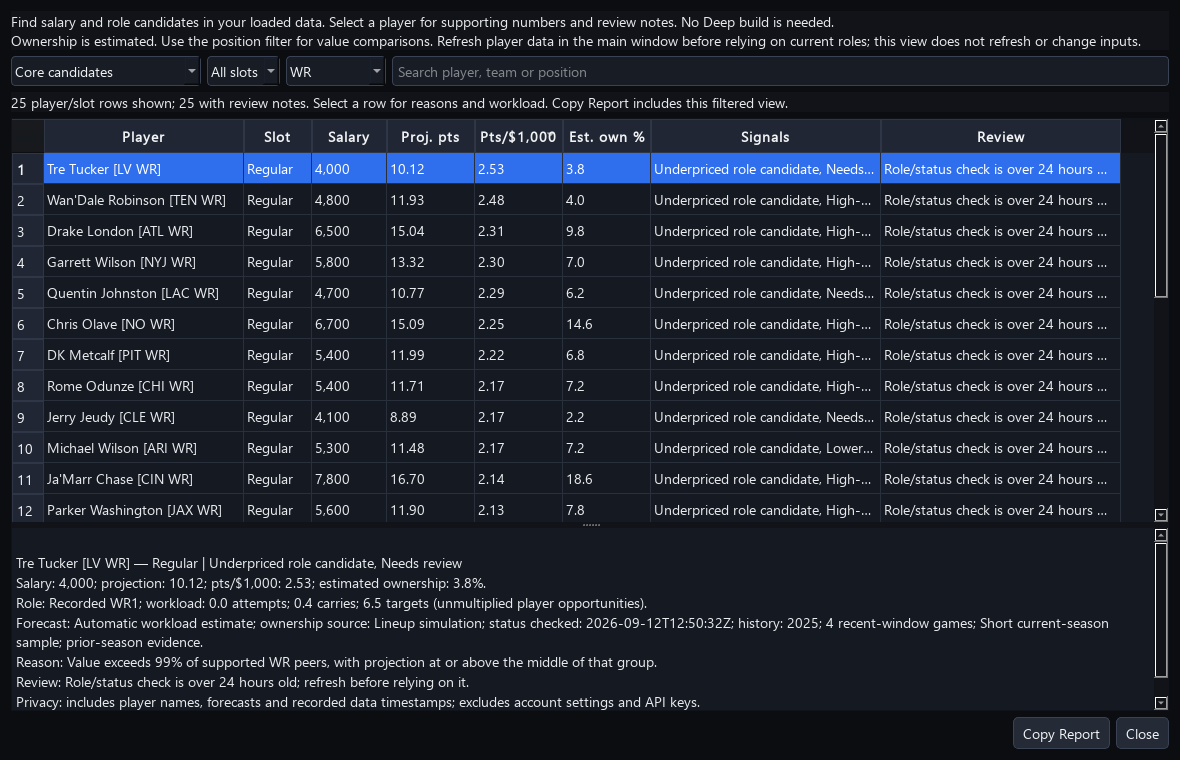
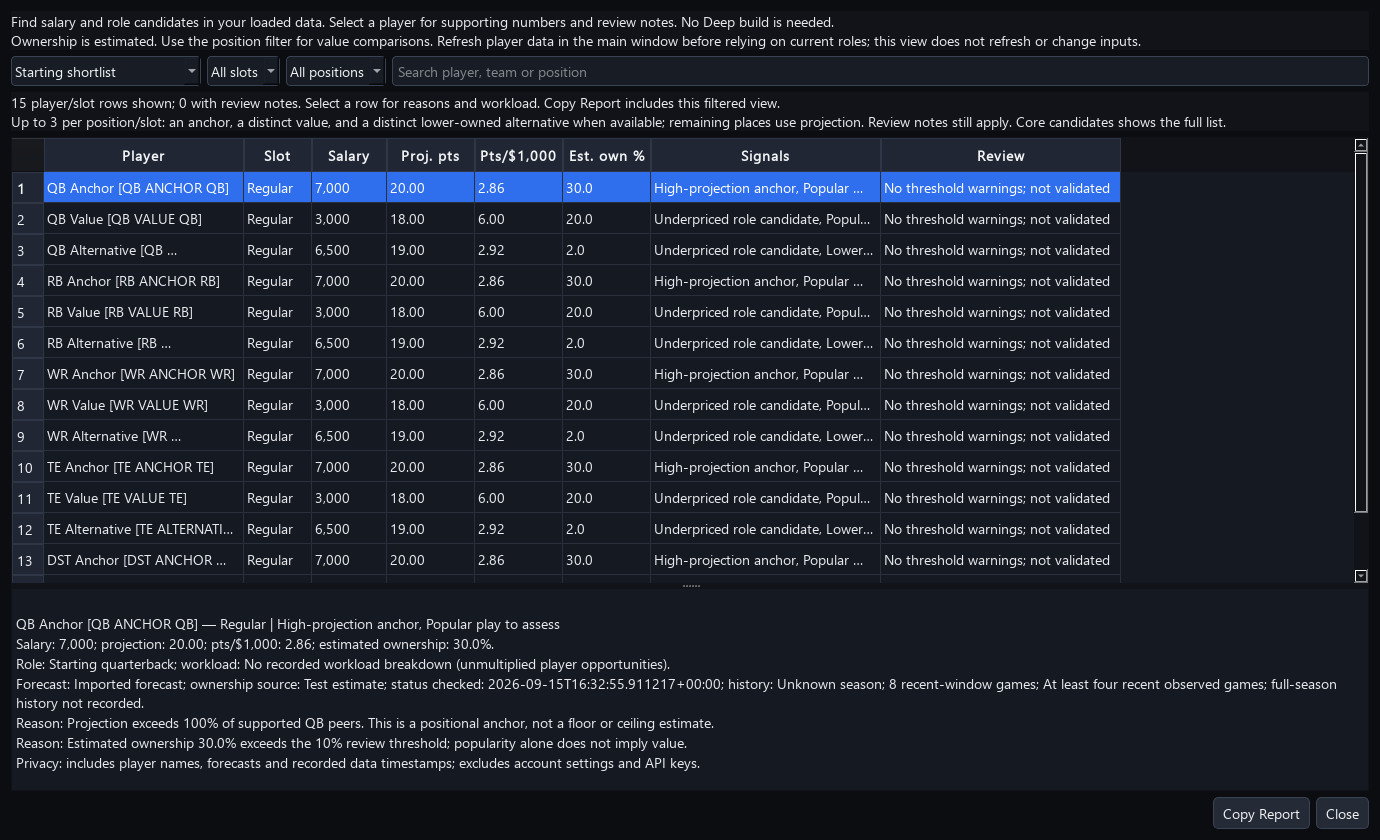
Add focused positional Core Plays shortlist and explicit alternative tradeoffs

diff --git a/core_plays_ui.py b/core_plays_ui.py
@@ -1,6 +1,6 @@
 """Sortable read-only core-play shortlist from already loaded player inputs."""
 from PyQt5 import QtCore,QtWidgets
-from core_plays import build_core_plays,format_core_report,CATEGORIES,POSITIVE
+from core_plays import build_core_plays,format_core_report,focused_core_rows,CATEGORIES,POSITIVE
 
 
 class CoreNumberItem(QtWidgets.QTableWidgetItem):
@@ -22,7 +22,7 @@ class CorePlaysDialog(QtWidgets.QDialog):
         layout=QtWidgets.QVBoxLayout(self)
         intro=QtWidgets.QLabel('Find salary and role candidates in your loaded data. Select a player for supporting numbers and review notes. No Deep build is needed.\nOwnership is estimated. Use the position filter for value comparisons. Refresh player data in the main window before relying on current roles; this view does not refresh or change inputs.');intro.setWordWrap(True);layout.addWidget(intro)
         controls=QtWidgets.QHBoxLayout()
-        self.category=QtWidgets.QComboBox();self.category.addItems(['Core candidates','All eligible','All loaded']+list(CATEGORIES))
+        self.category=QtWidgets.QComboBox();self.category.addItems(['Starting shortlist','Core candidates','All eligible','All loaded']+list(CATEGORIES))
         self.slot=QtWidgets.QComboBox();self.slot.addItems(['All slots']+(['Captain','FLEX'] if kind=='showdown' else ['Regular']))
         self.position=QtWidgets.QComboBox();self.position.addItems(['All positions','QB','RB','WR','TE','K','DST'])
         self.search=QtWidgets.QLineEdit();self.search.setPlaceholderText('Search player, team or position')
@@ -35,6 +35,9 @@ class CorePlaysDialog(QtWidgets.QDialog):
         self.table.setEditTriggers(QtWidgets.QAbstractItemView.NoEditTriggers)
         self.table.setSelectionBehavior(QtWidgets.QAbstractItemView.SelectRows)
         self.table.setSelectionMode(QtWidgets.QAbstractItemView.SingleSelection)
+        self.table.horizontalHeader().setSortIndicator(-1,QtCore.Qt.AscendingOrder)
+        self.table.horizontalHeader().setSectionResizeMode(QtWidgets.QHeaderView.Interactive)
+        for j,width in enumerate([200,68,75,88,88,88,230,240]):self.table.setColumnWidth(j,width)
         split.addWidget(self.table)
         self.details=QtWidgets.QPlainTextEdit();self.details.setReadOnly(True);split.addWidget(self.details);split.setSizes([440,200])
         buttons=QtWidgets.QDialogButtonBox(QtWidgets.QDialogButtonBox.Close)
@@ -51,11 +54,12 @@ class CorePlaysDialog(QtWidgets.QDialog):
             if self.position.currentText()!='All positions' and r['position']!=self.position.currentText():return False
             if slot!='All slots' and r['slot']!=slot:return False
             if query and query not in r['player'].casefold():return False
-            if mode=='Core candidates':return bool(POSITIVE.intersection(r['categories']))
+            if mode in ('Starting shortlist','Core candidates'):return bool(POSITIVE.intersection(r['categories']))
             if mode=='All eligible':return r['eligible']
             if mode=='All loaded':return True
             return mode in r['categories']
-        self.visible=[r for r in self.report['rows'] if include(r)]
+        source=focused_core_rows(self.report['rows']) if mode=='Starting shortlist' else self.report['rows']
+        self.visible=[r for r in source if include(r)]
         self.table.setSortingEnabled(False);self.table.setRowCount(0);self.table.setRowCount(len(self.visible))
         for i,r in enumerate(self.visible):
             text=[r['player'],r['slot'],None,None,None,None,', '.join(r['categories']),
@@ -65,10 +69,12 @@ class CorePlaysDialog(QtWidgets.QDialog):
                 item=CoreNumberItem(r[numeric[j][0]],numeric[j][1]) if j in numeric else QtWidgets.QTableWidgetItem(text[j])
                 if j==0:item.setData(QtCore.Qt.UserRole,i)
                 item.setToolTip(item.text());self.table.setItem(i,j,item)
-        self.table.setSortingEnabled(True);self.table.sortItems(4,QtCore.Qt.DescendingOrder)
-        for j,width in enumerate([200,68,75,88,88,88,230,240]):self.table.setColumnWidth(j,width)
+        self.table.setSortingEnabled(True)
         flagged=sum(bool(r['concerns']) for r in self.visible)
         self.count.setText(f'{len(self.visible)} player/slot rows shown; {flagged} with review notes. Select a row for reasons and workload. Copy Report includes this filtered view.')
+        if mode=='Starting shortlist':
+            self.count.setText(self.count.text()+'\nUp to 3 per position/slot: an anchor, a distinct value, and a distinct lower-owned alternative when available; remaining places use projection. Review notes still apply. Core candidates shows the full list.')
+        self.count.setWordWrap(True)
         if self.visible:self.table.selectRow(0);self.show_details()
         else:self.details.setPlainText('No matching candidates. Use All loaded to inspect missing forecasts, exclusions or uncertain roles. Refresh player data from the main window when needed.')
     def ordered_rows(self):
@@ -79,7 +85,10 @@ class CorePlaysDialog(QtWidgets.QDialog):
         idx=self.table.item(row,0).data(QtCore.Qt.UserRole)
         if idx is not None and idx<len(self.visible):self.details.setPlainText('\n'.join(format_core_report(self.report,[self.visible[idx]]).splitlines()[5:]))
     def copy_report(self):
-        QtWidgets.QApplication.clipboard().setText(format_core_report(self.report,self.ordered_rows()))
+        text=format_core_report(self.report,self.ordered_rows())
+        if self.category.currentText()=='Starting shortlist':
+            text+='\nStarting shortlist: up to 3 per position/slot; anchor, distinct value, distinct lower-owned alternative where available, then projection. A review starting point, not a SIM ranking or recommended exposure. Full candidates remain available.'
+        QtWidgets.QApplication.clipboard().setText(text)
 
 
 def open_core_plays(w):

diff --git a/core_plays.py b/core_plays.py
@@ -13,6 +13,32 @@ CATEGORIES = ('Underpriced role candidate', 'High-projection anchor', 'Popular p
 POSITIVE = set(CATEGORIES[:-1])
 
 
+def focused_core_rows(rows):
+    """Three distinct review candidates per position/slot, not a lineup ranking."""
+    groups = defaultdict(list)
+    for row in rows:
+        if row['eligible'] and POSITIVE.intersection(row['categories']):
+            groups[(row['slot'], row['position'])].append(row)
+    result = []
+    positions = ['QB', 'RB', 'WR', 'TE', 'K', 'DST']
+    for group in sorted(groups, key=lambda g: (g[0], positions.index(g[1]) if g[1] in positions else 99)):
+        peers = groups[group]
+        chosen = []
+        # Reserve different reasons to review; popularity alone gets no reserved place.
+        for category, metric in ((CATEGORIES[1], 'projection'), (CATEGORIES[0], 'value'),
+                                 (CATEGORIES[3], 'projection')):
+            candidates = [r for r in peers if category in r['categories'] and r not in chosen]
+            if candidates:
+                chosen.append(sorted(candidates, key=lambda r: (-r[metric], r['player']))[0])
+        for row in sorted(peers, key=lambda r: (-r['projection'], -r['value'], r['player'])):
+            if len(chosen) >= 3:
+                break
+            if row not in chosen:
+                chosen.append(row)
+        result.extend(chosen)
+    return result
+
+
 def build_core_plays(players, kind='classic', now=None):
     if kind not in ('classic', 'showdown'):
         raise ValueError('Core Plays supports NFL Classic and Showdown.')
@@ -140,7 +166,9 @@ def build_core_plays(players, kind='classic', now=None):
                 and r['ownership']<=.7*q['ownership'] and r['projection']>=.9*q['projection']
                 and r['salary']<=1.1*q['salary']]
             for q in sorted(alternatives,key=lambda q:-q['ownership'])[:2]:
-                add(CATEGORIES[3], f"Compare with {q['name']}: {q['projection']:.1f} projected points, ${q['salary']:,.0f}, {q['ownership']:.1f}% estimated ownership. Similar mean projection does not establish similar ceiling.")
+                add(CATEGORIES[3], f"Compare with {q['name']}: {q['projection']:.1f} projected points, ${q['salary']:,.0f}, {q['ownership']:.1f}% estimated ownership. "
+                    f"This player: {r['projection']-q['projection']:+.2f} projected points, {r['salary']-q['salary']:+,.0f} salary dollars, {r['ownership']-q['ownership']:+.1f} ownership percentage points. "
+                    "Similar mean projection does not establish similar ceiling.")
         if active and r['promoted']:
             add(CATEGORIES[4], 'Earlier recorded depth slots are explicitly unavailable. Increased opportunity is a candidate signal, not confirmation of starting snaps.')
         if r['concerns'] or r['excluded']:

diff --git a/test_core_plays.py b/test_core_plays.py
@@ -2,7 +2,7 @@ import copy
 import os
 import unittest
 from datetime import datetime,timezone
-from core_plays import build_core_plays,format_core_report,CATEGORIES,POSITIVE
+from core_plays import build_core_plays,format_core_report,focused_core_rows,CATEGORIES,POSITIVE
 
 NOW=datetime(2026,9,13,12,tzinfo=timezone.utc)
 
@@ -17,6 +17,23 @@ def player(name,projection=12,salary=5000,own=12,**extra):
 
 
 class CorePlaysTests(unittest.TestCase):
+    def test_shortlist_reserves_distinct_signals_and_keeps_slot_warnings(self):
+        pool=[player('Anchor',20,7000,30),player('Value',18,3000,20,Rookie=True),
+              player('Alternative',19,6500,2),player('Other',10,5000,11),player('Low',5,4000,1),
+              player('Faded',30,2000,1,FadeCpt=True,FadeFlex=True)]
+        report=build_core_plays(pool,'showdown',NOW)
+        before=copy.deepcopy(report)
+        shortlist=focused_core_rows(report['rows'])
+        for slot in ('Captain','FLEX'):
+            rows=[r for r in shortlist if r['slot']==slot]
+            self.assertEqual([r['name'] for r in rows],['Anchor','Value','Alternative'])
+        self.assertEqual(report,before)
+        self.assertTrue(any(r['concerns'] for r in shortlist))
+        self.assertNotIn('Faded',[r['name'] for r in shortlist])
+        notes=format_core_report(report,shortlist)
+        self.assertIn('-1.00 projected points, -500 salary dollars, -28.0 ownership percentage points',notes)
+        self.assertEqual(focused_core_rows([]),[])
+
     def test_relative_value_anchors_alternatives_and_no_mutation(self):
         pool=[player('Value',18,3000,4),player('Popular',20,7000,25),player('Middle',12),player('Low',6)]
         before=copy.deepcopy(pool);r=build_core_plays(pool,now=NOW);rows={x['name']:x for x in r['rows']}
@@ -81,7 +98,10 @@ class CorePlaysTests(unittest.TestCase):
         app=QtWidgets.QApplication.instance() or QtWidgets.QApplication([])
         pool=[player('Ten',10,10000,10),player('Two',20,2000,2),player('Unknown',OwnershipUnits='unknown')]
         before=copy.deepcopy(pool);d=CorePlaysDialog(pool,'showdown')
+        self.assertEqual(d.category.currentText(),'Starting shortlist')
+        d.table.setColumnWidth(0,300)
         d.category.setCurrentText('All loaded');d.slot.setCurrentText('FLEX')
+        self.assertEqual(d.table.columnWidth(0),300)
         self.assertEqual(d.table.rowCount(),3)
         for order in (QtCore.Qt.AscendingOrder,QtCore.Qt.DescendingOrder):
             d.table.sortItems(5,order)

diff --git a/docs/USER_GUIDE.md b/docs/USER_GUIDE.md
@@ -1372,6 +1372,8 @@ Saved banks omit original group/team/game settings, so this does not recreate th
 
 ## Core Plays from loaded salaries
 
+Core Plays opens with **Starting shortlist**: up to three distinct players per position and slot. It first takes the highest-projected anchor, then the highest-value remaining value candidate, then the highest-projected remaining lower-owned alternative. Any remaining places use projection among tagged candidates. This is a review starting point, not a SIM ranking, exposure recommendation or requirement to use all three. Warnings remain visible; **Core candidates** restores the full list. Filters narrow the existing shortlist. Captain and FLEX are handled separately. Alternative details show exact differences in salary dollars, projected points and ownership percentage points. Column widths and sorting remain in place while filtering.
+
 After loading NFL salaries and refreshing player data, open **Settings > Core Plays** for the active Classic or Showdown output tab. No Deep run is required. This read-only view uses the currently loaded inputs; it does not fetch data, change projections, set exposure limits or lock players. Reopen after changing inputs. Filters show core candidates, all eligible/loaded players, individual signal categories and Captain/FLEX slots. Search by player/team/position; click headers to sort numerically, with unknowns last in either direction. Select a row for workload, sources, history, status-check time, reasons and review notes. **Copy Report** copies every row in the current filtered/sorted view.
 
 Signals are transparent heuristics, not recommendations to lock a player: **Underpriced role candidate** requires points per $1,000 percentile >=75 and projection percentile >=50 among at least four supported positive-forecast peers at the same position/slot. **High-projection anchor** requires projection percentile >=80; equal peers do not count as strictly lower. **Popular play to assess** uses estimated ownership >=10% Classic, >=25% FLEX or >=8% Captain. **Lower-owned alternative** compares same-position/slot players with >=90% of a popular peer's projection, <=110% salary, and both >=5 percentage points and >=30% lower ownership. Similar mean projections do not prove similar ceilings. **Role-change opportunity** requires explicit unavailability in every earlier recorded depth slot. No salary file alone establishes current starters or actual ownership.
@@ -1382,7 +1384,9 @@ Showdown uses separate Captain/FLEX prices, forecasts and explicit percentage ow
 
 Use the position filter to compare QB, RB, WR, TE, K or DST. Cross-position value sorting is not an overall player ranking.
 
-![Core Plays on illustrative saved inputs, with recorded data warnings](images/core-plays.png)
+![Classic starting shortlist on illustrative inputs](images/core-plays.png)
+
+![Showdown starting shortlist with separate Captain and FLEX rows](images/core-plays-showdown.png)
 
 
 ## Update one contest in a combined entries file

diff --git a/README.md b/README.md
@@ -673,6 +673,8 @@ Saved banks omit original group/team/game settings, so this does not recreate th
 
 ## Core Plays from loaded salaries
 
+Core Plays opens with **Starting shortlist**: up to three distinct players per position and slot. It first takes the highest-projected anchor, then the highest-value remaining value candidate, then the highest-projected remaining lower-owned alternative. Any remaining places use projection among tagged candidates. This is a review starting point, not a SIM ranking, exposure recommendation or requirement to use all three. Warnings remain visible; **Core candidates** restores the full list. Filters narrow the existing shortlist. Captain and FLEX are handled separately. Alternative details show exact differences in salary dollars, projected points and ownership percentage points. Column widths and sorting remain in place while filtering.
+
 After loading NFL salaries and refreshing player data, open **Settings > Core Plays** for the active Classic or Showdown output tab. No Deep run is required. This read-only view uses the currently loaded inputs; it does not fetch data, change projections, set exposure limits or lock players. Reopen after changing inputs. Filters show core candidates, all eligible/loaded players, individual signal categories and Captain/FLEX slots. Search by player/team/position; click headers to sort numerically, with unknowns last in either direction. Select a row for workload, sources, history, status-check time, reasons and review notes. **Copy Report** copies every row in the current filtered/sorted view.
 
 Signals are transparent heuristics, not recommendations to lock a player: **Underpriced role candidate** requires points per $1,000 percentile >=75 and projection percentile >=50 among at least four supported positive-forecast peers at the same position/slot. **High-projection anchor** requires projection percentile >=80; equal peers do not count as strictly lower. **Popular play to assess** uses estimated ownership >=10% Classic, >=25% FLEX or >=8% Captain. **Lower-owned alternative** compares same-position/slot players with >=90% of a popular peer's projection, <=110% salary, and both >=5 percentage points and >=30% lower ownership. Similar mean projections do not prove similar ceilings. **Role-change opportunity** requires explicit unavailability in every earlier recorded depth slot. No salary file alone establishes current starters or actual ownership.

diff --git a/docs/releases/v1.19.0.md b/docs/releases/v1.19.0.md
@@ -420,3 +420,7 @@ Manual widths are retained within the open app while paging, sorting, restoring 
 
 - Trace defense counts through the Deep Showdown pipeline, including individual leaders versus selected outputs.
 - Reuse existing simulation results; no extra simulation runs, scoring changes or exposure limits.
+
+## Focused Core Plays review
+
+Core Plays opens with **Starting shortlist**: up to three distinct players per position and slot. It first takes the highest-projected anchor, then the highest-value remaining value candidate, then the highest-projected remaining lower-owned alternative. Any remaining places use projection among tagged candidates. This is a review starting point, not a SIM ranking, exposure recommendation or requirement to use all three. Warnings remain visible; **Core candidates** restores the full list. Filters narrow the existing shortlist. Captain and FLEX are handled separately. Alternative details show exact differences in salary dollars, projected points and ownership percentage points. Column widths and sorting remain in place while filtering.
